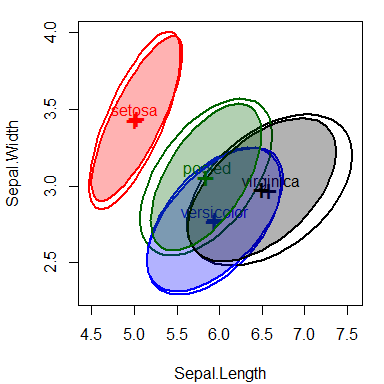
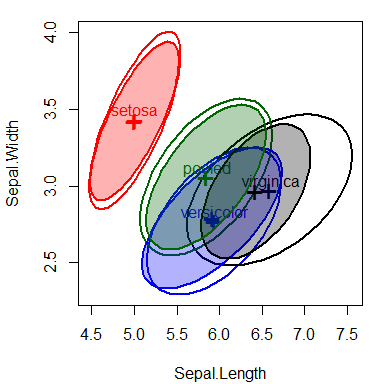
fix URLs

diff --git a/README.md b/README.md
@@ -20,7 +20,7 @@ Commit](https://img.shields.io/github/last-commit/friendly/heplots)](https://git
 
 <!-- Version 1.7.2 -->
 
-Version 1.8.0; documentation built for `pkgdown` 2025-12-01
+Version 1.8.0; documentation built for `pkgdown` 2025-12-05
 
 ## Description
 
@@ -37,12 +37,12 @@ one dimension. For the theory and applications, see:
 - [Friendly (2007)](http://datavis.ca/papers/jcgs-heplots.pdf) for the
   basic theory on which this is based.
 - [Fox, Friendly and Monette
-  (2009)]((http://datavis.ca/palers/FoxFriendlyMonette-2009.pdf)) for a
+  (2009)](https://datavis.ca/papers/FoxFriendlyMonette-2009.pdf) for a
   brief introduction,
 - [Friendly (2010)](http://www.jstatsoft.org/v37/i04/paper) for the
   application of these ideas to repeated measure designs,
 - [Friendly, Monette and Fox
-  (2013)](http://datavis.ca/palers/ellipses-STS402.pdf) for a general
+  (2013)](http://datavis.ca/papers/ellipses-STS402.pdf) for a general
   discussion of the role of elliptical geometry in statistical
   understanding,
 - [Friendly & Sigal (2017)](https://doi.org/10.20982/tqmp.13.1.p020) for
@@ -388,12 +388,12 @@ Statistical Software*, **17**, 1-42.
 
 Friendly, M. (2007). [HE plots for Multivariate General Linear
 Models](http://datavis.ca/papers/jcgs-heplots.pdf). *Journal of
-Computational and Graphical Statistics*, **16**(2) 421-444.
-[DOI](http://dx.doi.org/10.1198/106186007X208407).
+Computational and Graphical Statistics*, **16**(2) 421-444. DOI:
+10.1198/106186007X208407.
 
 Fox, J., Friendly, M. & Monette, G. (2009). [Visualizing hypothesis
 tests in multivariate linear models: The heplots package for
-R](http://datavis.ca/palers/FoxFriendlyMonette-2009.pdf) *Computational
+R](https://datavis.ca/papers/FoxFriendlyMonette-2009.pdf) *Computational
 Statistics*, **24**, 233-246.
 
 Friendly, M. (2010). [HE plots for repeated measures

diff --git a/dev/AskClaude.md b/dev/AskClaude.md
@@ -160,4 +160,21 @@ In addition: Warning messages:
 2: In log(det(x)) : NaNs produced
 ```
 
-This is a continuation of the discussion regarding the `boxM` function in my `heplots
+First, read `CLAUDE.me`, so we're on the same page.
+This is a continuation of the discussion regarding the `boxM` function, source at `R/boxM.R` in my `heplots` package, but
+now involving the method `covEllipses.boxM` defined in `R/covEllipses.R`. The problem occurs in the examples shown at lines
+135-146 in `R/covEllipses.R`, where these are presently included as `\donttest()` because they give errors.
+
+```r
+# method for a boxM object	
+x <- boxM(iris[, 1:4], iris[, "Species"])
+covEllipses(x, fill=c(rep(FALSE,3), TRUE) )
+```
+
+Error:
+
+```r
+Error in if (n.ell != nrow(means)) stop(paste0("number of covariance matrices (",  : 
+  argument is of length zero
+```
+

diff --git a/NEWS.md b/NEWS.md
@@ -3,6 +3,7 @@
 * `label.ellipse()` now returns invisibly the coordinates where the label was placed.
 * `heplot()` adds a `label.cex` argument to control the size of labels on H/E ellipses. The `label.pos` argument is vectorized, so that the changes to `label.ellipse()` now apply.
 * `boxM()` & `plot.boxM()` now correctly handle the situation where one or more groups have singular covariance matrices because !n>p
+* Fixed bug in `covEllipses.boxM()` method. `boxM()` now returns `ngroups` and `means` among it's components.
 
 ## Version 1.8.0
 
